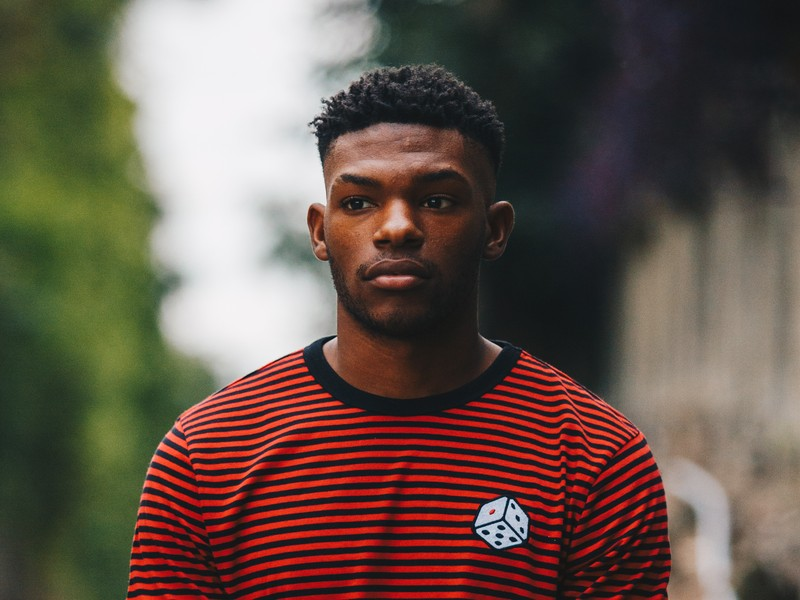
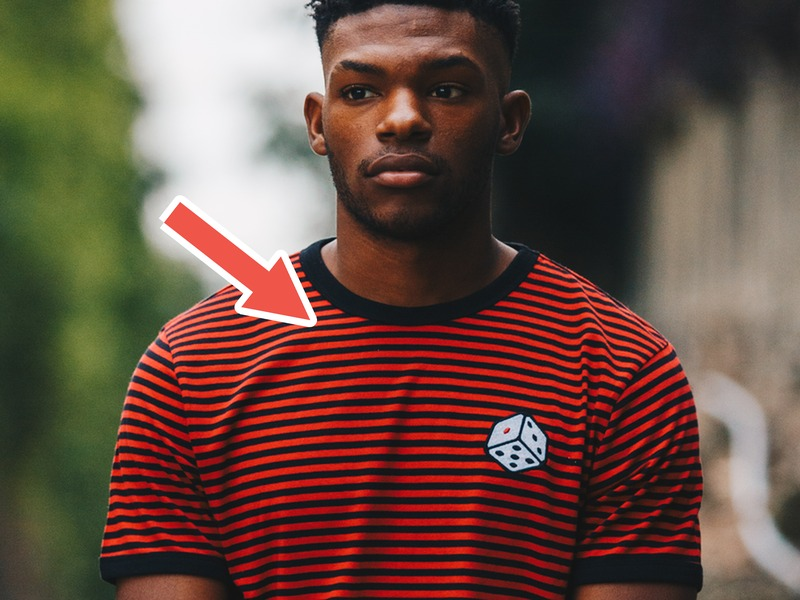
cards: 6巻の입・어깨・팔・다리・배の写真を差し替え（어깨・팔・다리에矢印を加筆）

diff --git a/cards.html b/cards.html
@@ -886,15 +886,15 @@ var VOLUMES = [
   "6-eolgul": { f: "assets/photos/v6-eolgul.jpg", a: "Helgi Halldórsson", l: "CC BY-SA 2.0", u: "https://commons.wikimedia.org/wiki/File:My_baby_(2587044619).jpg" },
   "6-nun": { f: "assets/photos/v6-nun.jpg", a: "Vladimer Shioshvili", l: "CC BY-SA 2.0", u: "https://commons.wikimedia.org/wiki/File:World_through_her_eye_-_Flickr_-_shioshvili.jpg" },
   "6-ko": { f: "assets/photos/v6-ko.jpg", a: "TheNoseKnows2Much", l: "CC BY-SA 4.0", u: "https://commons.wikimedia.org/wiki/File:Nose_Example.jpg" },
-  "6-ip": { f: "assets/photos/v6-ip.jpg", a: "Pupittaz", l: "CC BY-SA 4.0", u: "https://commons.wikimedia.org/wiki/File:Woman_lips.jpg" },
+  "6-ip": { f: "assets/photos/v6-ip.jpg", a: "さえぼー", l: "CC0", u: "https://commons.wikimedia.org/wiki/File:Two-days_stubble_partially_white.jpg", m: "トリミング" },
   "6-gwi": { f: "assets/photos/v6-gwi.jpg", a: "צולם על ידי he:משתמש:אנדר-ויק", l: "Public domain", u: "https://commons.wikimedia.org/wiki/File:Closeup_of_a_human_ear.jpg" },
   "6-i": { f: "assets/photos/v6-i.jpg", a: "Basile Morin", l: "CC BY-SA 4.0", u: "https://commons.wikimedia.org/wiki/File:Young_girl_smiling_with_teeth_in_sunshine.jpg" },
   "6-mok": { f: "assets/photos/v6-mok.jpg", a: "FotoFyl / Erifyli Tsavdari", l: "CC BY 2.0", u: "https://commons.wikimedia.org/wiki/File:Female_neck.jpg" },
-  "6-eokkae": { f: "assets/photos/v6-eokkae.jpg", a: "Mohammad Faruque primitivestudios", l: "CC0", u: "https://commons.wikimedia.org/wiki/File:Man_in_t-shirt_posing_(Unsplash).jpg" },
-  "6-pal": { f: "assets/photos/v6-pal.jpg", a: "Autumn Goodman auttgood", l: "CC0", u: "https://commons.wikimedia.org/wiki/File:Guy_in_blue_t-shirt_cropped_smaller.jpg" },
+  "6-eokkae": { f: "assets/photos/v6-eokkae.jpg", a: "Mohammad Faruque primitivestudios", l: "CC0", u: "https://commons.wikimedia.org/wiki/File:Man_in_t-shirt_posing_(Unsplash).jpg", m: "トリミング・矢印を加筆" },
+  "6-pal": { f: "assets/photos/v6-pal.jpg", a: "Autumn Goodman auttgood", l: "CC0", u: "https://commons.wikimedia.org/wiki/File:Guy_in_blue_t-shirt_cropped_smaller.jpg", m: "トリミング・矢印を加筆" },
   "6-son": { f: "assets/photos/v6-son.jpg", a: "trestletech", l: "CC0", u: "https://commons.wikimedia.org/wiki/File:Baby-Parenthood-Finger-Father-Hand-Love-Mother-1271742.jpg" },
-  "6-bae": { f: "assets/photos/v6-bae.jpg", a: "Arteida MjESHTRI arteidamjeshtri", l: "CC0", u: "https://commons.wikimedia.org/wiki/File:Autumn_baby_to_be_(Unsplash).jpg" },
-  "6-dari": { f: "assets/photos/v6-dari.jpg", a: "Imani Bahati", l: "CC0", u: "https://commons.wikimedia.org/wiki/File:Imani-bahati-woman-wearing-distressed-blue-denim-jeans-sitting-on-floor.jpg" },
+  "6-bae": { f: "assets/photos/v6-bae.jpg", a: "elise ramsey", l: "CC BY 2.0", u: "https://commons.wikimedia.org/wiki/File:Child_pokes_own_navel_with_finger.jpg", m: "トリミング" },
+  "6-dari": { f: "assets/photos/v6-dari.jpg", a: "Mario A. P.", l: "CC BY-SA 2.0", u: "https://commons.wikimedia.org/wiki/File:Cute_nice_legs_(50548463197).jpg", m: "トリミング・矢印を加筆" },
   "6-mureup": { f: "assets/photos/v6-mureup.jpg", a: "Genusfotografen (Tomas Gunnarsson) / Wikimedia Sverige", l: "CC BY-SA 4.0", u: "https://commons.wikimedia.org/wiki/File:Human_knees.jpg" },
   "6-bal": { f: "assets/photos/v6-bal.jpg", a: "lou &amp; magoo", l: "CC BY 2.0", u: "https://commons.wikimedia.org/wiki/File:Baby_feet_3_-_Flickr_-_lou_%5E_magoo.jpg" },
   "7-san": { f: "assets/photos/v7-san.jpg", a: "kallerna", l: "CC BY-SA 4.0", u: "https://commons.wikimedia.org/wiki/File:Vihren_%26_Kutelo_Pirin_Mountains_Bulgaria_2025.jpg" },
@@ -965,6 +965,8 @@ var VOLUMES = [
   var AUDIO_EXTS = ["mp3", "m4a", "wav"];
   /* 音声ファイルを追加したら、この数字を上げてください（ブラウザに残った古い404を避けるため） */
   var AUDIO_VER = "2";
+  /* 写真を差し替えたら、この数字を上げてください（ブラウザに残った古い画像を避けるため） */
+  var PHOTO_VER = "3";
   var LANG_KEY = "levelupk_cards_lang";
   var probeCache = {};
   var lang = "ja";
@@ -1187,8 +1189,9 @@ var VOLUMES = [
   function creditLine(p) {
     if (p.made) return "写真：Level Up K with MiAe Ssem（" + esc(p.l) + "）";
     var who = p.a ? esc(p.a) + " ／ " : "";
+    var note = p.m ? "・" + esc(p.m) : "";
     return "写真：<a href=\"" + esc(p.u) + "\" target=\"_blank\" rel=\"noopener noreferrer\">" +
-      who + "Wikimedia Commons</a>（" + esc(p.l) + "）";
+      who + "Wikimedia Commons</a>（" + esc(p.l) + note + "）";
   }
 
   function photoItem(p, word) {
@@ -1211,7 +1214,7 @@ var VOLUMES = [
     img.decoding = "async";
     img.addEventListener("load", function () { img.classList.add("is-loaded"); });
     img.addEventListener("error", function () { frame.hidden = true; });
-    img.src = p.f;
+    img.src = p.f + (p.f.indexOf("?") >= 0 ? "&" : "?") + "v=" + PHOTO_VER;
     if (img.complete && img.naturalWidth) img.classList.add("is-loaded");
     frame.appendChild(img);
     fig.appendChild(frame);

diff --git a/assets/photos/CREDITS.md b/assets/photos/CREDITS.md
@@ -5,6 +5,7 @@
 3点（第9巻の 백・천・만）は当教室で作った数字の画像（CC0・自作）です。
 ファイルは `assets/photos/v{巻}-{スラッグ}.jpg`（800×600・JPEG）に置いています。
 CC BY / CC BY-SA の写真は、カードの下に「写真：作者 ／ Wikimedia Commons（ライセンス）」と表示しています。
+第6巻（からだ）の 어깨・팔・다리 は、体の部分が一目で分かるように元の写真をトリミングし、矢印（白フチ付き）を描き足しています（CC BY-SAの写真は改変したことをライセンス欄に明記）。
 第5巻「いろ」の15語は写真ではなく、カードいっぱいに色を塗った色見本で表示しています（出典表示なし）。
 
 | 巻 | ファイル | ことば | 元のファイル | 作者 | ライセンス | 出典 |
@@ -76,15 +77,15 @@ CC BY / CC BY-SA の写真は、カードの下に「写真：作者 ／ Wikimed
 | 第6巻 からだ | v6-eolgul.jpg | 얼굴（かお） | My baby (2587044619).jpg | Helgi Halldórsson | CC BY-SA 2.0 | [Commons](https://commons.wikimedia.org/wiki/File:My_baby_(2587044619).jpg) |
 | 第6巻 からだ | v6-nun.jpg | 눈（め） | World through her eye - Flickr - shioshvili.jpg | Vladimer Shioshvili | CC BY-SA 2.0 | [Commons](https://commons.wikimedia.org/wiki/File:World_through_her_eye_-_Flickr_-_shioshvili.jpg) |
 | 第6巻 からだ | v6-ko.jpg | 코（はな） | Nose Example.jpg | TheNoseKnows2Much | CC BY-SA 4.0 | [Commons](https://commons.wikimedia.org/wiki/File:Nose_Example.jpg) |
-| 第6巻 からだ | v6-ip.jpg | 입（くち） | Woman lips.jpg | Pupittaz | CC BY-SA 4.0 | [Commons](https://commons.wikimedia.org/wiki/File:Woman_lips.jpg) |
+| 第6巻 からだ | v6-ip.jpg | 입（くち） | Two-days stubble partially white.jpg | さえぼー | CC0（トリミング） | [Commons](https://commons.wikimedia.org/wiki/File:Two-days_stubble_partially_white.jpg) |
 | 第6巻 からだ | v6-gwi.jpg | 귀（みみ） | Closeup of a human ear.jpg | צולם על ידי he:משתמש:אנדר-ויק | Public domain | [Commons](https://commons.wikimedia.org/wiki/File:Closeup_of_a_human_ear.jpg) |
 | 第6巻 からだ | v6-i.jpg | 이（は） | Young girl smiling with teeth in sunshine.jpg | Basile Morin | CC BY-SA 4.0 | [Commons](https://commons.wikimedia.org/wiki/File:Young_girl_smiling_with_teeth_in_sunshine.jpg) |
 | 第6巻 からだ | v6-mok.jpg | 목（くび） | Female neck.jpg | FotoFyl  / Erifyli Tsavdari | CC BY 2.0 | [Commons](https://commons.wikimedia.org/wiki/File:Female_neck.jpg) |
-| 第6巻 からだ | v6-eokkae.jpg | 어깨（かた） | Man in t-shirt posing (Unsplash).jpg | Mohammad Faruque primitivestudios | CC0 | [Commons](https://commons.wikimedia.org/wiki/File:Man_in_t-shirt_posing_(Unsplash).jpg) |
-| 第6巻 からだ | v6-pal.jpg | 팔（うで） | Guy in blue t-shirt cropped smaller.jpg | Autumn Goodman auttgood | CC0 | [Commons](https://commons.wikimedia.org/wiki/File:Guy_in_blue_t-shirt_cropped_smaller.jpg) |
+| 第6巻 からだ | v6-eokkae.jpg | 어깨（かた） | Man in t-shirt posing (Unsplash).jpg | Mohammad Faruque primitivestudios | CC0（トリミング・矢印を加筆） | [Commons](https://commons.wikimedia.org/wiki/File:Man_in_t-shirt_posing_(Unsplash).jpg) |
+| 第6巻 からだ | v6-pal.jpg | 팔（うで） | Guy in blue t-shirt cropped smaller.jpg | Autumn Goodman auttgood | CC0（トリミング・矢印を加筆） | [Commons](https://commons.wikimedia.org/wiki/File:Guy_in_blue_t-shirt_cropped_smaller.jpg) |
 | 第6巻 からだ | v6-son.jpg | 손（て） | Baby-Parenthood-Finger-Father-Hand-Love-Mother-1271742.jpg | trestletech from Pixabay | CC0 | [Commons](https://commons.wikimedia.org/wiki/File:Baby-Parenthood-Finger-Father-Hand-Love-Mother-1271742.jpg) |
-| 第6巻 からだ | v6-bae.jpg | 배（おなか） | Autumn baby to be (Unsplash).jpg | Arteida MjESHTRI arteidamjeshtri | CC0 | [Commons](https://commons.wikimedia.org/wiki/File:Autumn_baby_to_be_(Unsplash).jpg) |
-| 第6巻 からだ | v6-dari.jpg | 다리（あし） | Imani-bahati-woman-wearing-distressed-blue-denim-jeans-sitting-on-floor.jpg | Imani Bahati | CC0 | [Commons](https://commons.wikimedia.org/wiki/File:Imani-bahati-woman-wearing-distressed-blue-denim-jeans-sitting-on-floor.jpg) |
+| 第6巻 からだ | v6-bae.jpg | 배（おなか） | Child pokes own navel with finger.jpg | elise ramsey | CC BY 2.0（トリミング） | [Commons](https://commons.wikimedia.org/wiki/File:Child_pokes_own_navel_with_finger.jpg) |
+| 第6巻 からだ | v6-dari.jpg | 다리（あし） | Cute nice legs (50548463197).jpg | Mario A. P. | CC BY-SA 2.0（トリミング・矢印を加筆） | [Commons](https://commons.wikimedia.org/wiki/File:Cute_nice_legs_(50548463197).jpg) |
 | 第6巻 からだ | v6-mureup.jpg | 무릎（ひざ） | Human knees.jpg | Genusfotografen (Tomas Gunnarsson) / Wikimedia Sverige | CC BY-SA 4.0 | [Commons](https://commons.wikimedia.org/wiki/File:Human_knees.jpg) |
 | 第6巻 からだ | v6-bal.jpg | 발（あし） | Baby feet 3 - Flickr - lou ^ magoo.jpg | lou &amp; magoo | CC BY 2.0 | [Commons](https://commons.wikimedia.org/wiki/File:Baby_feet_3_-_Flickr_-_lou_%5E_magoo.jpg) |
 | 第7巻 そら・つち・うみ | v7-san.jpg | 산（やま） | Vihren & Kutelo Pirin Mountains Bulgaria 2025.jpg | kallerna | CC BY-SA 4.0 | [Commons](https://commons.wikimedia.org/wiki/File:Vihren_%26_Kutelo_Pirin_Mountains_Bulgaria_2025.jpg) |
